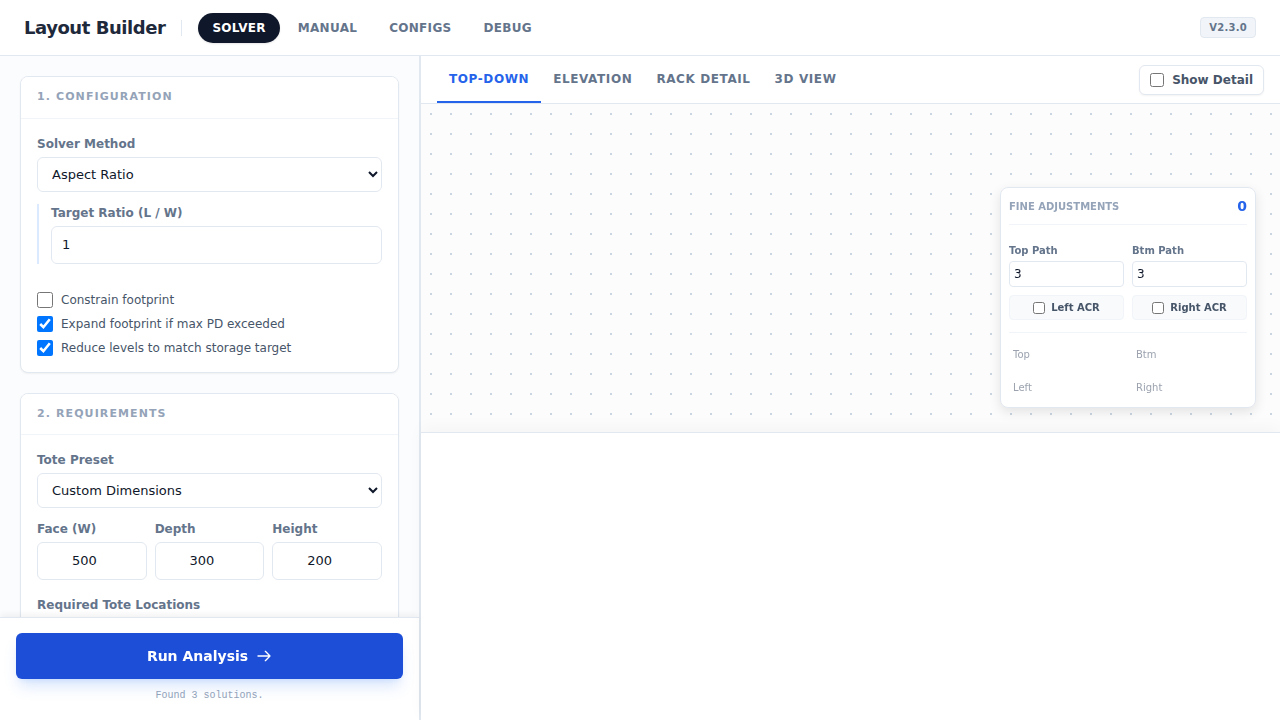
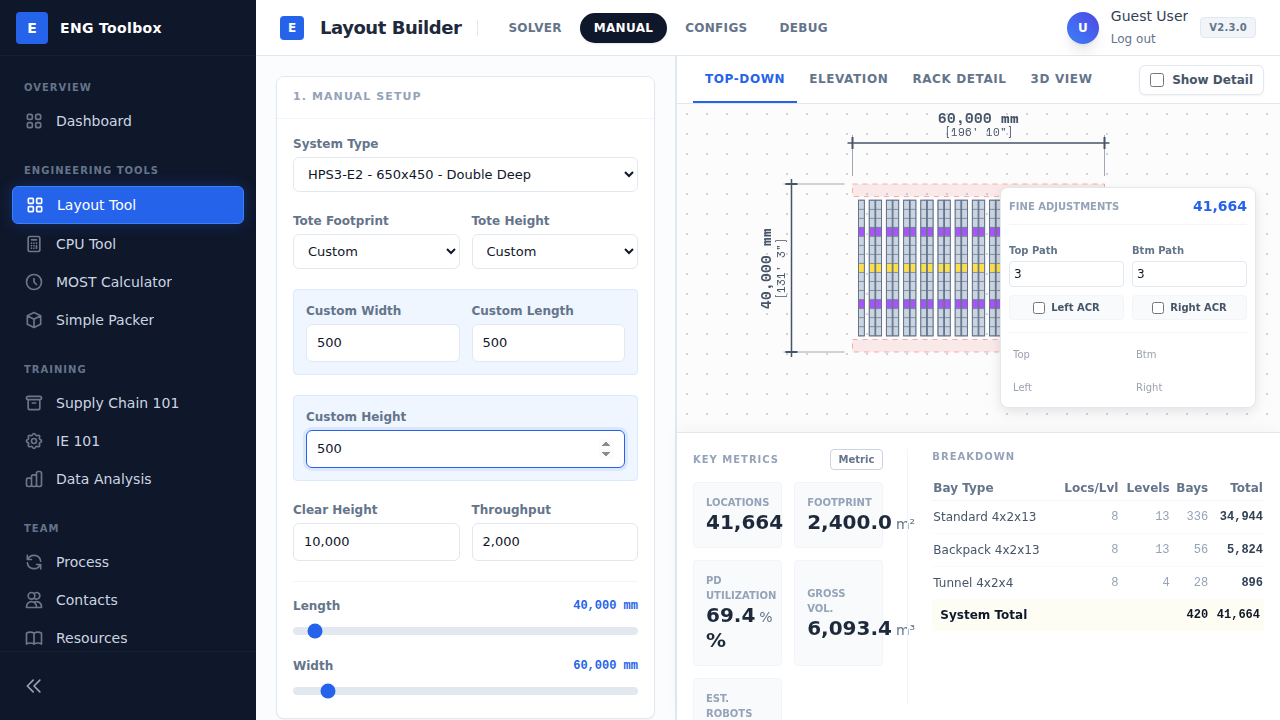
Add custom tote size support to Layout Tool manual mode
Added functionality to select "Custom" tote size and height in the Manual tab of the Layout Tool.
Users can now input custom width, length, and height, which overrides the selected configuration's defaults for manual layout calculations.
The UI dynamically reveals the custom input fields when "Custom" is selected.

diff --git a/layout-tool.html b/layout-tool.html
@@ -135,6 +135,7 @@
                                         <select id="manualToteSizeSelect" class="input-field">
                                             <option value="650x450x300">650 x 450</option>
                                             <option value="850x650x400">850 x 650</option>
+                                            <option value="custom">Custom</option>
                                         </select>
                                     </div>
                                     <div>
@@ -142,8 +143,25 @@
                                         <select id="manualToteHeightSelect" class="input-field">
                                             <option value="300" selected>300 mm</option>
                                             <option value="400">400 mm</option>
+                                            <option value="custom">Custom</option>
                                         </select>
                                     </div>
+                                </div>
+
+                                <div id="manualCustomToteContainer" class="hidden grid grid-cols-2 gap-3 bg-blue-50 p-3 rounded border border-blue-100 mb-3">
+                                    <div>
+                                        <label for="manualCustomToteWidth" class="input-label">Custom Width</label>
+                                        <input type="number" id="manualCustomToteWidth" value="650" class="input-field">
+                                    </div>
+                                    <div>
+                                        <label for="manualCustomToteLength" class="input-label">Custom Length</label>
+                                        <input type="number" id="manualCustomToteLength" value="450" class="input-field">
+                                    </div>
+                                </div>
+
+                                <div id="manualCustomToteHeightContainer" class="hidden bg-blue-50 p-3 rounded border border-blue-100 mb-3">
+                                    <label for="manualCustomToteHeight" class="input-label">Custom Height</label>
+                                    <input type="number" id="manualCustomToteHeight" value="300" class="input-field">
                                 </div>
 
                                 <div class="grid grid-cols-2 gap-3">

diff --git a/src/tools/layout-tool/app.js b/src/tools/layout-tool/app.js
@@ -38,11 +38,18 @@ import {
     solverReduceLevelsCheckbox,
     manualSystemConfigSelect,
     manualToteSizeSelect,
+    manualCustomToteContainer,
+    manualCustomToteWidth,
+    manualCustomToteLength,
+    manualToteHeightSelect,
+    manualCustomToteHeightContainer,
+    manualCustomToteHeight,
     exportSummaryButton
 
 } from './dom.js';
 
 import { exportSummaryPdf } from './pdfExport.js';
+import { runManualLayout } from './solver.js';
 
 function createParamHTML(label, value, unit = '') {
     if (label === null || value === null) {
@@ -224,6 +231,37 @@ document.addEventListener('DOMContentLoaded', async () => {
         // Trigger once
         manualSystemConfigSelect.dispatchEvent(new Event('change'));
     }
+
+    // --- NEW: Custom Tote Size Handlers ---
+    if (manualToteSizeSelect) {
+        manualToteSizeSelect.addEventListener('change', () => {
+            if (manualToteSizeSelect.value === 'custom') {
+                if (manualCustomToteContainer) manualCustomToteContainer.classList.remove('hidden');
+            } else {
+                if (manualCustomToteContainer) manualCustomToteContainer.classList.add('hidden');
+            }
+            // Trigger run
+            setTimeout(runManualLayout, 50);
+        });
+    }
+
+    if (manualToteHeightSelect) {
+        manualToteHeightSelect.addEventListener('change', () => {
+            if (manualToteHeightSelect.value === 'custom') {
+                if (manualCustomToteHeightContainer) manualCustomToteHeightContainer.classList.remove('hidden');
+            } else {
+                if (manualCustomToteHeightContainer) manualCustomToteHeightContainer.classList.add('hidden');
+            }
+            setTimeout(runManualLayout, 50);
+        });
+    }
+
+    const manualCustomInputs = [manualCustomToteWidth, manualCustomToteLength, manualCustomToteHeight];
+    manualCustomInputs.forEach(input => {
+        if (input) {
+            input.addEventListener('input', () => setTimeout(runManualLayout, 200));
+        }
+    });
 
     // Moved inside DOMContentLoaded after refreshDOMElements()
     const redrawInputs = [

diff --git a/src/tools/layout-tool/solver.js b/src/tools/layout-tool/solver.js
@@ -45,6 +45,9 @@ import {
     manualWidthSlider,
     manualToteSizeSelect,
     manualToteHeightSelect,
+    manualCustomToteWidth,
+    manualCustomToteLength,
+    manualCustomToteHeight,
     manualThroughputInput,
     manualClearHeightInput,
     pdUtilCard,
@@ -157,11 +160,35 @@ export function runManualLayout() {
     
     // Config
     const configKey = manualSystemConfigSelect.value;
-    const config = configurations[configKey];
+    // Create shallow copy to allow overrides
+    const config = { ...configurations[configKey] };
     
     const H = parseNumber(manualClearHeightInput.value);
-    const toteHeight = parseNumber(manualToteHeightSelect.value);
     const throughput = parseNumber(manualThroughputInput.value);
+
+    // --- Determine Tote Dimensions ---
+    if (manualToteSizeSelect) {
+        if (manualToteSizeSelect.value === 'custom') {
+            if (manualCustomToteWidth) config['tote-width'] = parseNumber(manualCustomToteWidth.value);
+            if (manualCustomToteLength) config['tote-length'] = parseNumber(manualCustomToteLength.value);
+        } else {
+             // Parse from value like "650x450x300"
+             const parts = manualToteSizeSelect.value.split('x');
+             if (parts.length >= 2) {
+                 config['tote-width'] = parseInt(parts[0]);
+                 config['tote-length'] = parseInt(parts[1]);
+             }
+        }
+    }
+
+    let toteHeight = 300;
+    if (manualToteHeightSelect) {
+        if (manualToteHeightSelect.value === 'custom') {
+            if (manualCustomToteHeight) toteHeight = parseNumber(manualCustomToteHeight.value);
+        } else {
+            toteHeight = parseNumber(manualToteHeightSelect.value);
+        }
+    }
 
     const pathSettings = {
         topAMRLines: robotPathTopLinesInput ? parseNumber(robotPathTopLinesInput.value) : 3,

diff --git a/src/tools/layout-tool/dom.js b/src/tools/layout-tool/dom.js
@@ -56,7 +56,12 @@ export let solverManualWidth;
 export let manualSystemConfigSelect;
 // NEW: Manual Elements
 export let manualToteSizeSelect;
+export let manualCustomToteContainer;
+export let manualCustomToteWidth;
+export let manualCustomToteLength;
 export let manualToteHeightSelect;
+export let manualCustomToteHeightContainer;
+export let manualCustomToteHeight;
 export let manualThroughputInput;
 export let manualClearHeightInput;
 export let manualLengthSlider;
@@ -240,7 +245,12 @@ export function refreshDOMElements() {
     solverManualWidth = document.getElementById('solverManualWidth');
     manualSystemConfigSelect = document.getElementById('manualSystemConfigSelect');
     manualToteSizeSelect = document.getElementById('manualToteSizeSelect');
+    manualCustomToteContainer = document.getElementById('manualCustomToteContainer');
+    manualCustomToteWidth = document.getElementById('manualCustomToteWidth');
+    manualCustomToteLength = document.getElementById('manualCustomToteLength');
     manualToteHeightSelect = document.getElementById('manualToteHeightSelect');
+    manualCustomToteHeightContainer = document.getElementById('manualCustomToteHeightContainer');
+    manualCustomToteHeight = document.getElementById('manualCustomToteHeight');
     manualThroughputInput = document.getElementById('manualThroughputInput');
     manualClearHeightInput = document.getElementById('manualClearHeightInput');
     manualLengthSlider = document.getElementById('manualLengthSlider');

diff --git a/verify_custom_tote.py b/verify_custom_tote.py
@@ -1,0 +1,46 @@
+from playwright.sync_api import sync_playwright
+
+def run(playwright):
+    browser = playwright.chromium.launch(headless=True)
+    page = browser.new_page()
+    page.goto("http://localhost:8080/layout-tool.html")
+
+    # Wait for the tab button to be visible
+    page.wait_for_selector("button[data-tab='manualTabContent']")
+
+    # Click on the "Manual" tab
+    page.click("button[data-tab='manualTabContent']")
+
+    # Wait for the manual tab content to be visible
+    # Now it should be visible because we clicked the tab
+    page.wait_for_selector("#manualTabContent", state="visible")
+
+    # Select "Custom" in Tote Footprint
+    page.select_option("#manualToteSizeSelect", "custom")
+
+    # Verify custom inputs are visible
+    page.wait_for_selector("#manualCustomToteContainer", state="visible")
+
+    # Enter custom width and length
+    page.fill("#manualCustomToteWidth", "500")
+    page.fill("#manualCustomToteLength", "500")
+
+    # Select "Custom" in Tote Height
+    page.select_option("#manualToteHeightSelect", "custom")
+
+    # Verify custom height input is visible
+    page.wait_for_selector("#manualCustomToteHeightContainer", state="visible")
+
+    # Enter custom height
+    page.fill("#manualCustomToteHeight", "500")
+
+    # Wait for layout update (debounced)
+    page.wait_for_timeout(2000)
+
+    # Take screenshot
+    page.screenshot(path="verification_screenshot.png")
+
+    browser.close()
+
+with sync_playwright() as playwright:
+    run(playwright)
